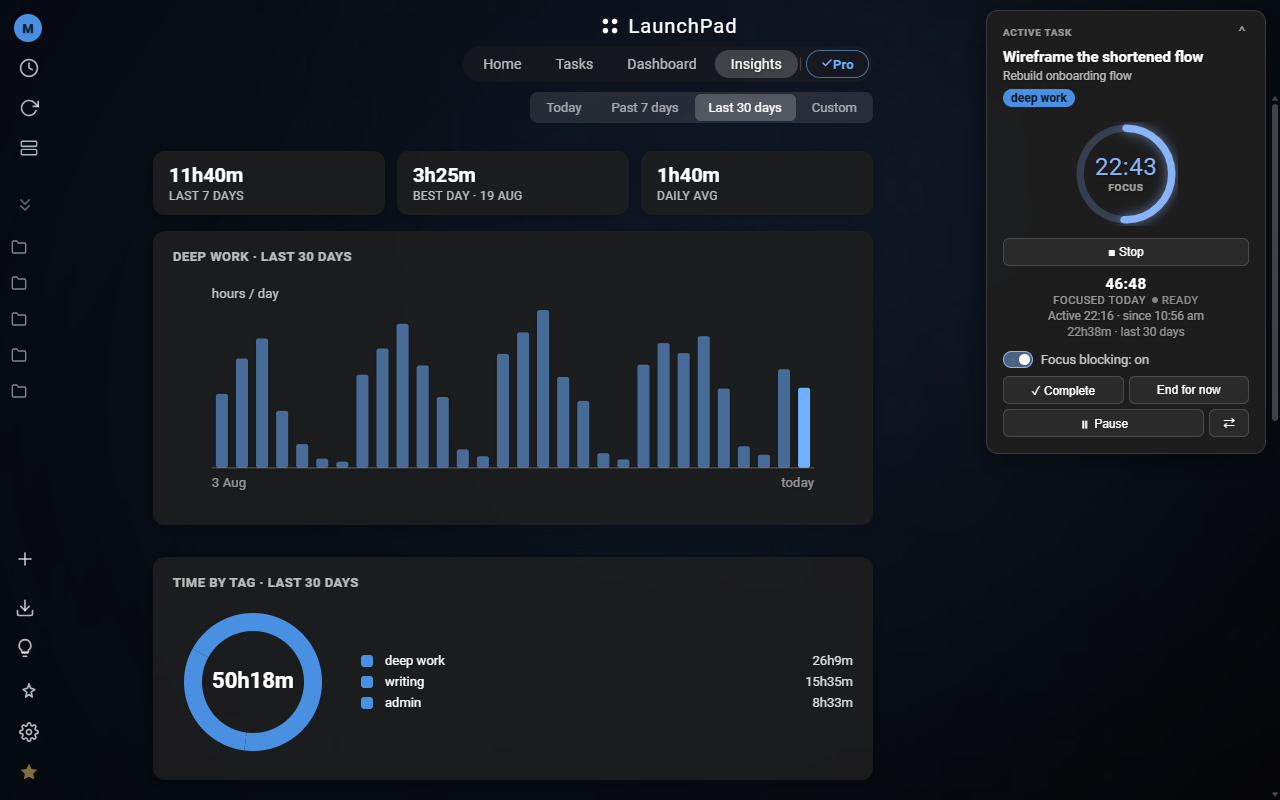
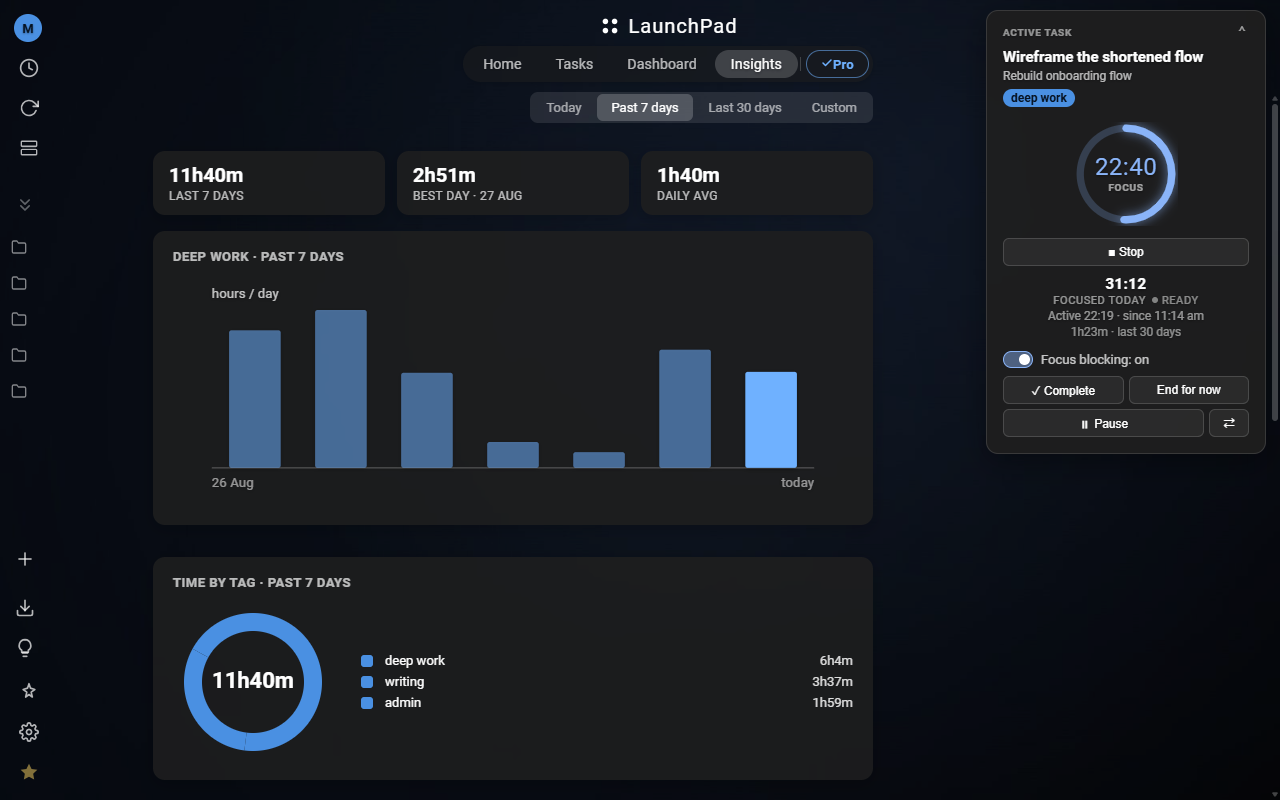
chore(store): revise the 2.1.0 screenshot set to five frames
Samson's review rejected 06-sessions.png outright and flagged four
smaller inconsistencies. All five are addressed.

06 IS DROPPED, and the reason is geometry rather than taste.
#sessions-dropdown is `position: fixed; left: 260px; width: 380px`, so
at 1280 wide it always occupies x=260..640 and bisects the centred
wordmark and the tab bar; and the sidebar is necessarily expanded for as
long as it is open, because opening a panel sets sidebarLocked to
prevent collapse. Neither framing in the review - "sidebar collapsed" or
"flyout clear of the logo" - is reachable by a real user, so neither can
be captured honestly. The attach-session picker was built as a
substitute and works, driven through the real controls, but it is a thin
frame: three session names in a dialog over a blurred board, without the
tab counts and favicons that made the flyout worth showing. It stays in
the script behind CAPTURE_ATTACH_FRAME=1. The store takes five.

The four fixture corrections, each a wrong shape rather than a wrong
number - the previous values were invented against fields the product
does not read:

  focusStats is {version, byDay:{dayKey:{blocked,snoozed}}}, so the
  dashboard tile read 0 DISTRACTIONS BLOCKED while frame 4 was the
  blocking page. Now 7 today, 11 yesterday.

  Per-task attribution spread across all 30 tracked days produced 16h35m
  and 22h38m on single tasks. Attribution is now limited to the last
  three days at modest shares: 7m, 54m, 1h23m.
[…]

diff --git a/tools/capture-fixture.js b/tools/capture-fixture.js
@@ -155,13 +155,13 @@ async function __seedCaptureFixture() {
     }
 
     // ------------------------------------------------------------ notes
+    // Kept SHORT on purpose: the column is narrow and a long note is clipped
+    // mid-sentence at the fold, which reads as a bug rather than as more content.
     const NOTES = [
-      ["Ask finance whether the Q3 cut-off moved. If it did, the summary needs a new date range.", "butter-yellow"],
-      ["Onboarding: three steps is the target. Anything that cannot justify itself gets cut.", "mint"],
-      ["Studio said Thursday works if we confirm by Tuesday.", "soft-pink"],
-      ["Reading list: the piece on attention residue, and the follow-up on context switching.", "sky-blue"],
-      ["Renewal is annual, not monthly. Do not let it lapse again.", "peach"],
-      ["Draft opening line: the quarter was steadier than it looked from inside it.", "lavender"],
+      ["Ask finance if the Q3 cut-off moved.", "butter-yellow"],
+      ["Onboarding: three steps is the target.", "mint"],
+      ["Studio holds Thursday until Tuesday.", "soft-pink"],
+      ["Renewal is annual, not monthly.", "peach"],
     ];
     // createNote MUTATES `data` and does NOT save. Re-reading storage between
     // calls discarded every note on the first run; build them all, save once.
@@ -234,11 +234,18 @@ async function __seedCaptureFixture() {
       if (tw) byTag[tw] = Math.round(total * 0.52);
       if (ta) byTag[ta] = Math.round(total * 0.31);
       if (tb) byTag[tb] = total - (byTag[tw] || 0) - (byTag[ta] || 0);
+      // TASK time is attributed only to the LAST FEW DAYS and at a modest share.
+      // Spreading 45% of every day across thirty days accumulated to 16h35m and
+      // 22h38m on single tasks, which strains belief on a task row; a couple of
+      // hours reads true. Most of a day's focus belongs to no task at all, which
+      // is also what actually happens.
       const t1 = taskIds["Wireframe the shortened flow"], t2 = taskIds["Chart the quarter-over-quarter split"],
             t3 = taskIds["Draft the executive summary"];
-      if (t1) byTask[t1] = Math.round(total * 0.45);
-      if (t2) byTask[t2] = Math.round(total * 0.33);
-      if (t3) byTask[t3] = total - (byTask[t1] || 0) - (byTask[t2] || 0);
+      if (back <= 3) {
+        if (t1) byTask[t1] = Math.round(total * 0.30);
+        if (t2 && back <= 2) byTask[t2] = Math.round(total * 0.22);
+        if (t3 && back === 3) byTask[t3] = Math.round(total * 0.25);
+      }
       days[wsId + ":" + dayKey(back)] = {
         day: dayKey(back), workspaceId: wsId, totalFocusedMs: total,
         byDomain: byDomain, byTag: byTag, byTask: byTask,
@@ -275,8 +282,14 @@ async function __seedCaptureFixture() {
     data = await S.getAll();
     data.focusArmed = true;
     data.blockList = ["news.ycombinator.com", "youtube.com", "reddit.com", "x.com"];
-    // A believable blocked count, so the strip is not a row of zeroes.
-    data.focusStats = Object.assign({}, data.focusStats || {}, { blockedTotal: 34 });
+    // focusStats is { version, byDay: { <dayKey>: { blocked, snoozed } } }, and
+    // the Dashboard tile reads TODAY's bucket. `blockedTotal` was invented and
+    // the tile correctly showed 0 while frame 4 is the blocking page.
+    data.focusStats = data.focusStats && data.focusStats.byDay
+      ? data.focusStats : { version: 1, byDay: {} };
+    data.focusStats.byDay[dayKey(0)] = { blocked: 7, snoozed: 1 };
+    data.focusStats.byDay[dayKey(1)] = { blocked: 11, snoozed: 2 };
+    data.focusStats.byDay[dayKey(2)] = { blocked: 4, snoozed: 0 };
     await S.saveAll(data);
 
     return {
